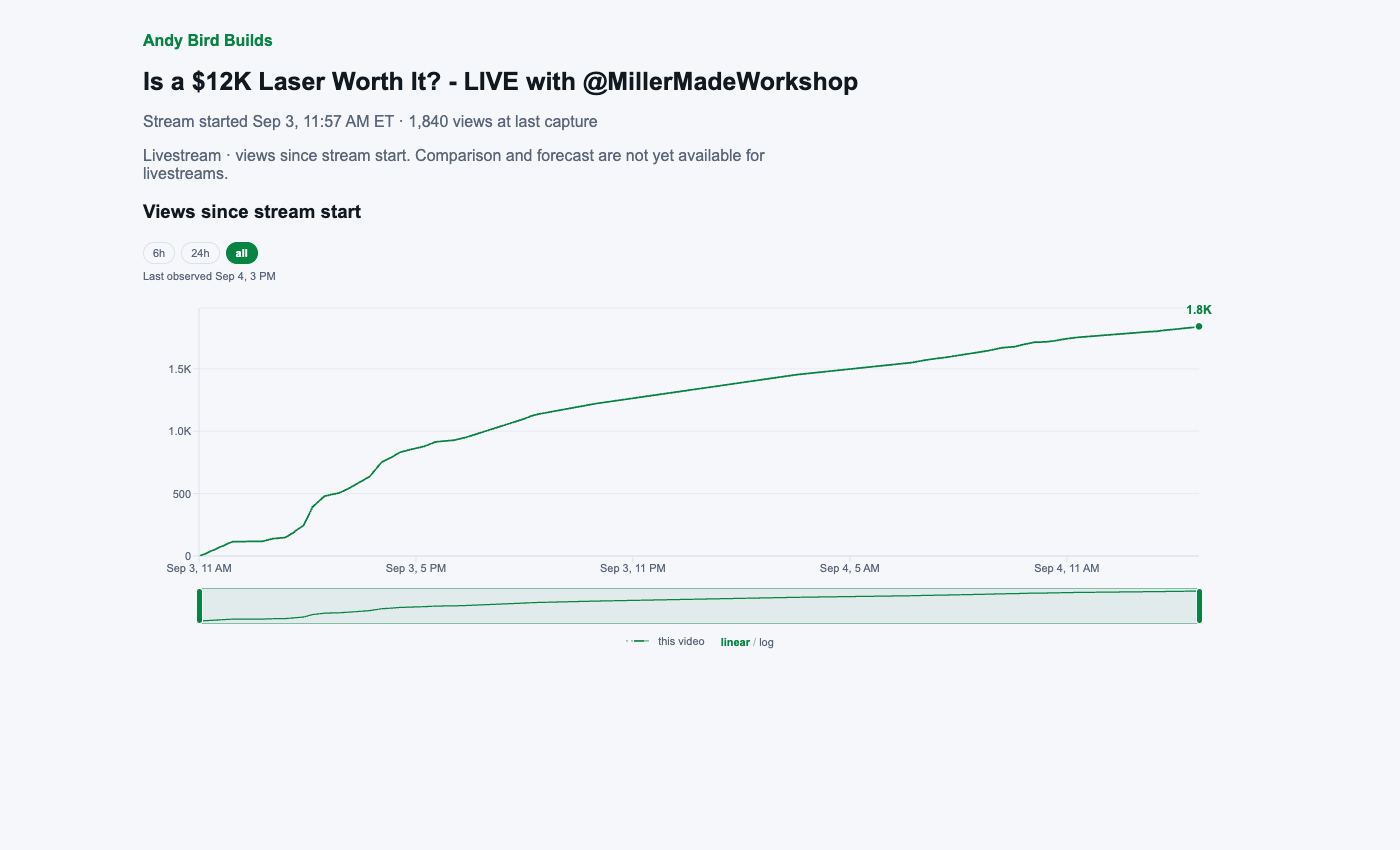
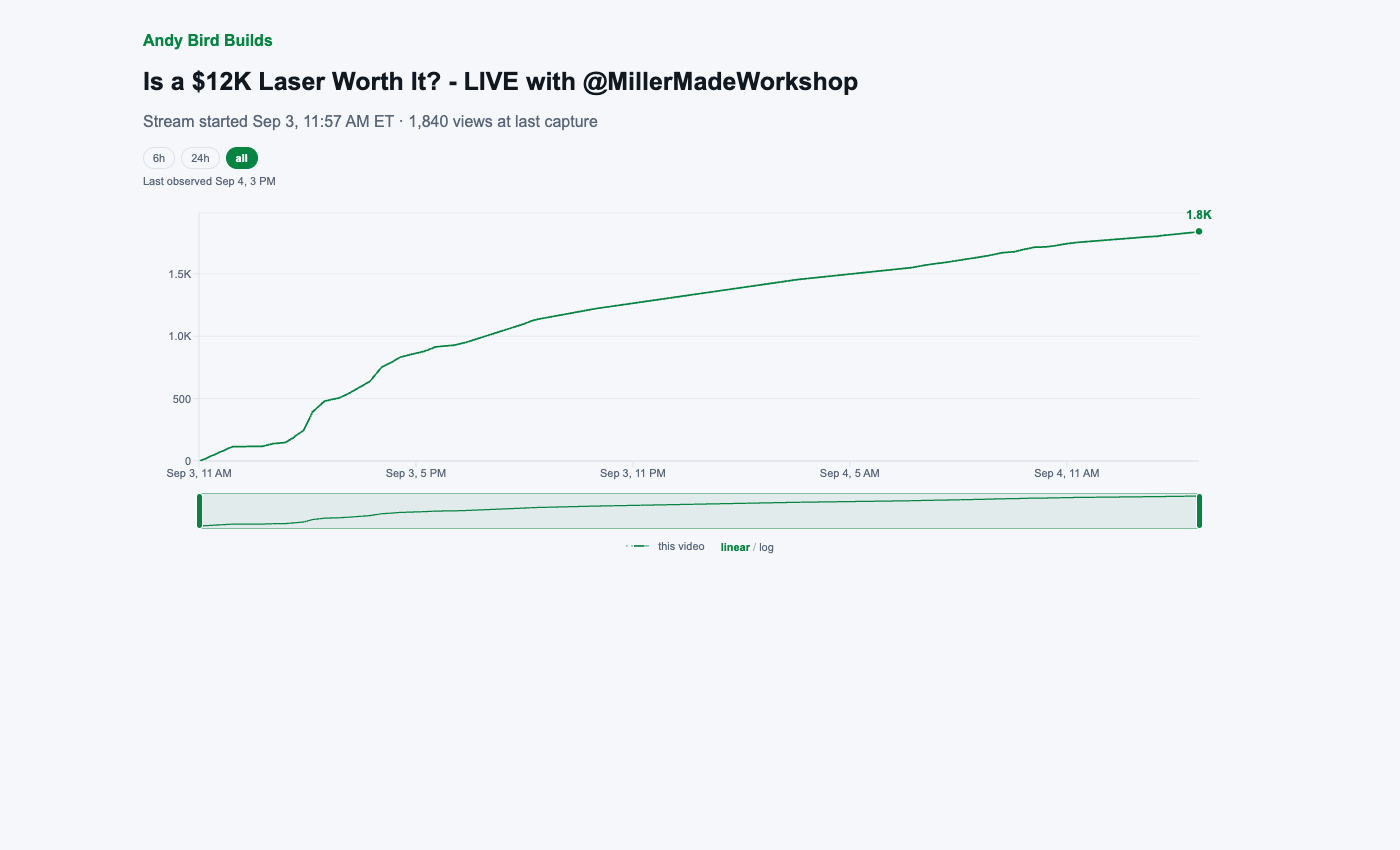
Keep livestream context inline and remove verbose chart copy

diff --git a/app/app/videos/[id]/page.tsx b/app/app/videos/[id]/page.tsx
@@ -31,7 +31,6 @@ async function VideoBody({ id, channelId }: { id: string; channelId: string }) {
     <>
       <section className="cs-section" style={{ marginTop: 18 }}>
         {!v.broadcastNotice && <h2>Views since publish</h2>}
-        {v.broadcastNotice && <p className="cs-sub">{v.timeLabel === 'Stream started' ? 'Views since stream start' : 'Recorded views · stream start unknown'}</p>}
         <VideoChart
           actuals={v.actuals}
           publishedAt={v.chartOriginAt}
@@ -120,7 +119,7 @@ export default async function AppVideoPage({ params }: { params: Promise<{ id: s
           {/* ONE metadata line: the channel, when it went out, how old it is, the exact count,
               and the link. The verdict below never repeats any of it. */}
           <p className="cs-sub">
-            {h.meta.timeLabel && <>{h.meta.timeLabel} · </>}<LocalTime className="cs-num" ms={h.meta.publishedMs} /> · {h.meta.age} ·{' '}
+            {h.meta.timeLabel && <><span title={h.meta.contextNote ?? undefined}>{h.meta.timeLabel}</span> · </>}<LocalTime className="cs-num" ms={h.meta.publishedMs} /> · {h.meta.age} ·{' '}
             <span className="cs-num">{h.meta.views}</span> views ·{' '}
             <a href={h.meta.youtubeUrl} target="_blank" rel="noreferrer"
                style={{ color: 'var(--cs-muted)', textDecoration: 'underline' }}>YouTube ↗</a>
@@ -128,10 +127,10 @@ export default async function AppVideoPage({ params }: { params: Promise<{ id: s
         </div>
       </div>
 
-      <p className="vp-verdict">
+      {(h.big || h.verdict) && <p className="vp-verdict">
         {h.big && <span className="vp-big" data-over={h.over}>{h.big}</span>}
         <span className="vp-said">{h.verdict}</span>
-      </p>
+      </p>}
 
       <Suspense fallback={<VideoBodySkeleton />}>
         <VideoBody id={v.id} channelId={v.channelId} />

diff --git a/lib/app/video-page.ts b/lib/app/video-page.ts
@@ -391,7 +391,7 @@ export type HeaderLines = {
    * would write, so the number crosses and components/app/local-time.tsx formats it.
    * (Admin pages and scripts still use lib/admin/format's ET helpers — one reader, one zone.)
    */
-  meta: { timeLabel?: string | null; channelName: string; publishedMs: number | null; age: string; views: string; youtubeUrl: string };
+  meta: { contextNote?: string | null; timeLabel?: string | null; channelName: string; publishedMs: number | null; age: string; views: string; youtubeUrl: string };
   /** The multiple, or null when we cannot score the video. */
   big: string | null;
   over: boolean;
@@ -415,12 +415,13 @@ export function headerLines(v: HeaderInput): HeaderLines {
   const meta = {
     channelName: v.channelName,
     timeLabel: v.timeLabel,
+    contextNote: v.broadcastNotice,
     publishedMs: (() => { const t = new Date(v.timeLabel === 'Stream started' ? v.chartOriginAt ?? v.publishedAt : v.publishedAt).getTime(); return Number.isFinite(t) ? t : null; })(),
     age: v.broadcastNotice && v.timeLabel !== 'Stream started' ? 'stream age unknown' : ageWord(v.ageDays),
     views: Number(v.views).toLocaleString('en-US'),
     youtubeUrl: `https://youtu.be/${v.id}`,
   };
-  if (v.broadcastNotice) return { meta, big: null, over: false, verdict: v.broadcastNotice };
+  if (v.broadcastNotice) return { meta, big: null, over: false, verdict: '' };
   const pct = (x: number) => `${x.toFixed(x < 10 ? 1 : 0)}×`;
 
   if (!isSameAgeScore(sc) && v.headline === 'now' && v.pace != null && v.expectedNow != null) {

diff --git a/docs/audits/livestream-preview/entry.tsx b/docs/audits/livestream-preview/entry.tsx
@@ -6,9 +6,7 @@ const v:any=view;
 function Preview(){return <main style={{maxWidth:1150,margin:'32px auto',padding:'0 18px'}}>
 <a style={{color:'var(--cs-accent)',fontWeight:600}}>{v.channelName}</a>
 <h1 style={{fontSize:25}}>{v.title}</h1>
-<p style={{color:'var(--cs-muted)'}}>Stream started Sep 3, 11:57 AM ET · {v.views.toLocaleString()} views at last capture</p>
-<p style={{color:'var(--cs-muted)',maxWidth:'70ch'}}>{v.broadcastNotice}</p>
-<h3>Views since stream start</h3>
+<p style={{color:'var(--cs-muted)'}}><span title={v.broadcastNotice}>Stream started</span> Sep 3, 11:57 AM ET · {v.views.toLocaleString()} views at last capture</p>
 <MarkerHoverProvider><VideoChart publishedAt={v.chartOriginAt} actuals={v.actuals} series={v.series} curve={v.curve} marks={v.marks} score={null} comparison={v.comparison}/></MarkerHoverProvider>
 </main>}
 createRoot(document.getElementById('root')!).render(<Preview/>);

diff --git a/lib/app/livestream-chart.test.ts b/lib/app/livestream-chart.test.ts
@@ -24,7 +24,9 @@ test('reported archived stream starts its performance chart at actual broadcast 
  expect(v.comparison).toBeNull();
  const h=headerLines(v);
  expect(h.big).toBeNull();
- expect(h.verdict).toContain('Livestream');
+ expect(h.verdict).toBe('');
+ expect(h.meta.timeLabel).toBe('Stream started');
+ expect(h.meta.contextNote).toContain('Comparison and forecast');
  expect(h.verdict).not.toContain('0.8');
 });
 test('broadcast with unknown actual start does not infer a history or forecast from its publication date',async()=>{

diff --git a/docs/audits/2026-09-04-livestream-tdd.md b/docs/audits/2026-09-04-livestream-tdd.md
@@ -57,3 +57,6 @@ The final command is a dry-run by default and was verified without a database co
 ## Release boundary
 
 All changes are local in scoring/v5-evaluation based on 8f39086. No production data, score model, scheduler, canonical checkout, push, merge or deployment changes. The test suite is the regression prevention mechanism; broad livestream scoring/calibration remains separate work. The old 0.8× is withheld here, not silently recalculated with normal-upload priors.
+
+## Compact presentation correction
+Brandon rejected the standalone livestream explanation and duplicate chart heading as contrary to the design rules. Removed both, including the empty verdict container. Stream context remains in the existing date line, with secondary detail in its title attribute. The corrected header test failed on the old paragraph before implementation, then passed; 21 focused tests pass. The browser regression now rejects visible model-explanation copy/repeated headings and checks that chart controls follow compact metadata. Desktop/mobile screenshots refreshed and inspected; source lint passes. This replaces the verbose presentation in the first livestream preview.
